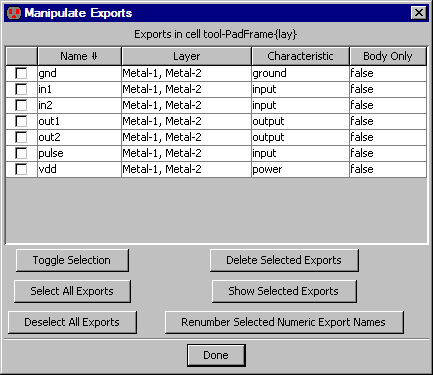
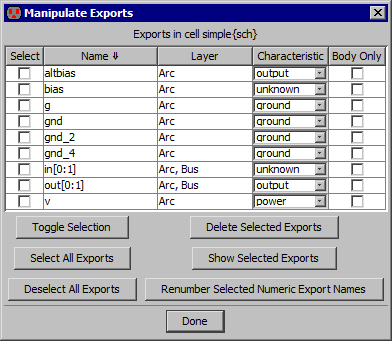
Documented new "Manipulate Exports" dialog (Bug #2895)
git-svn-id: https://svn.java.net/svn/electric~svn/trunk@11723 b64ed6c1-75a8-e629-b1da-d0dae74a743a

diff --git a/srcj/com/sun/electric/tool/user/help/helphtml/chap03-06-03.html b/srcj/com/sun/electric/tool/user/help/helphtml/chap03-06-03.html
@@ -41,9 +41,12 @@ The export is moved from the first node to the second node.
 <TABLE><TR><TD><CENTER><IMG SRC="fig03-35.png" ALT="Figure 3.35"></CENTER></TD><TD VALIGN=TOP>
 You can control all existing exports in the current cell with the
 <B>Manipulate Exports...</B> command.
-This dialog shows the exports and lets you sort them by name, layer, characteristic, or "body only"
+This dialog shows the exports and lets you sort them by name, layer, or characteristic.
+Schematic cells also offer a "body only" control which,
+when checked, makes that export appear only in the body (the schematic) and not in the icon cell
 (see <A HREF="chap03-06-01.html#chap03-06-01">Section 3-6-1</A>).
 You can change export names and characteristics.
+If multiple exports are selected, changing one of their characteristics changes all of them.
 You can also delete, show, or renumber selected exports.
 Renumbering of exports presumes that the exports have numbers in their names
 and renames them so that there are no gaps in the sequence (and the first has no number).
